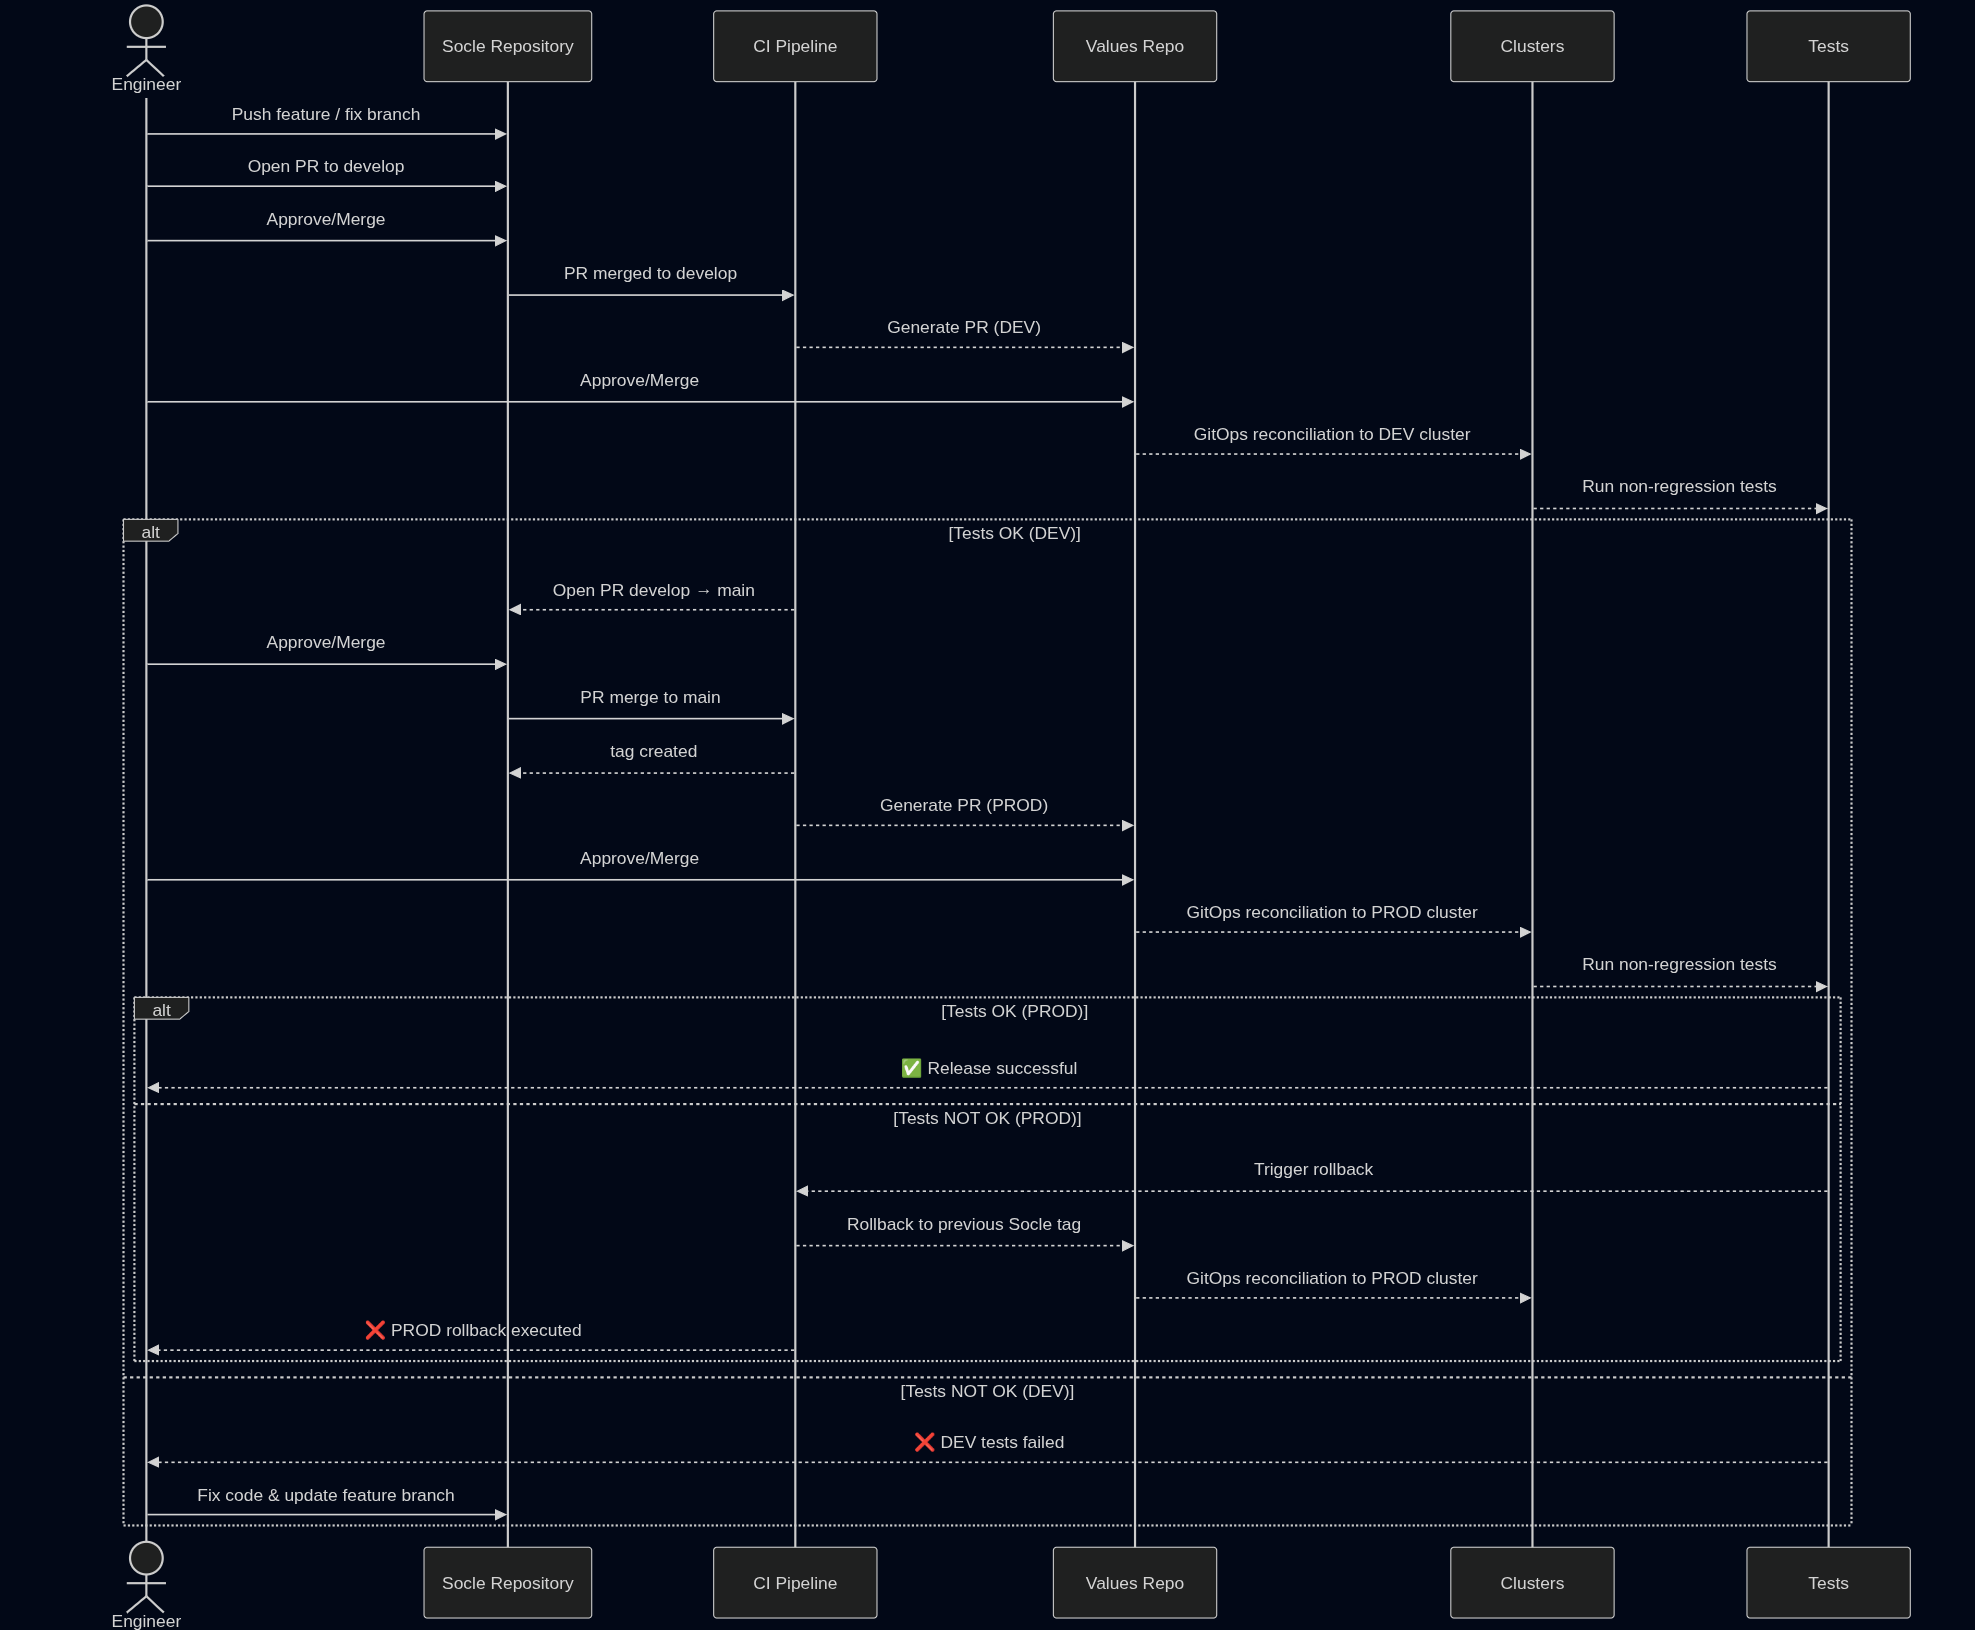
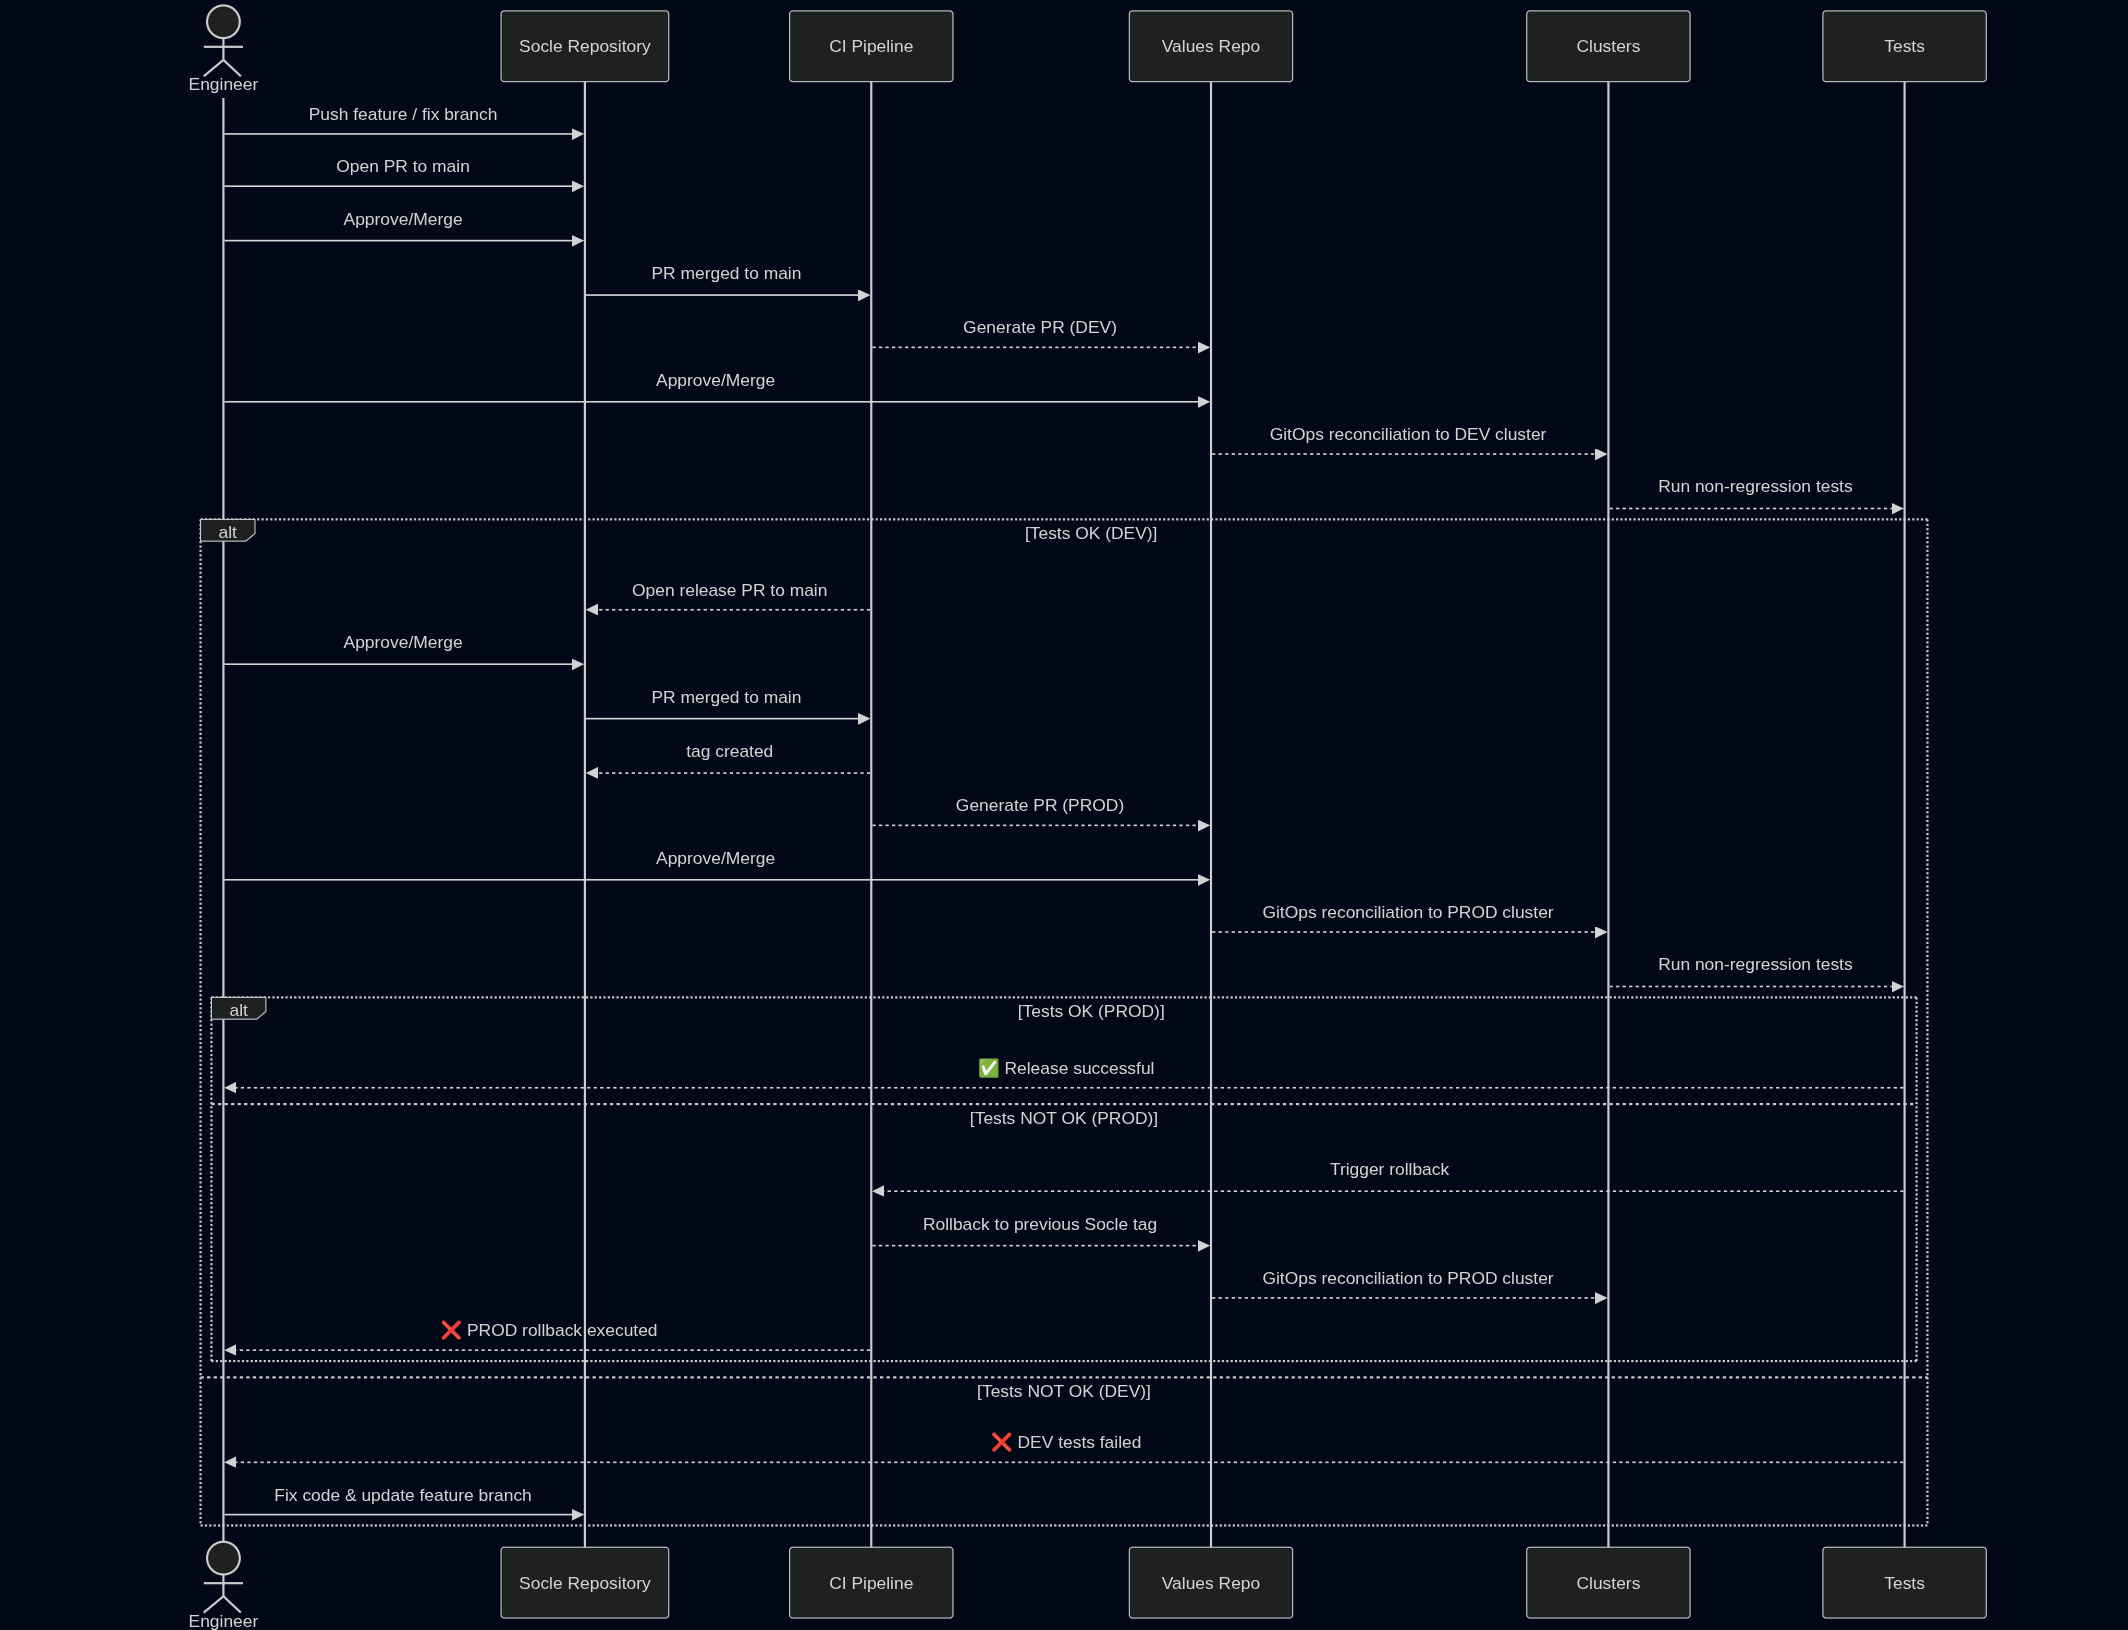
chore: :broom: update workflow diagram

diff --git a/docs/cloudPiNative/misc/mermaid.md b/docs/cloudPiNative/misc/mermaid.md
@@ -9,9 +9,9 @@ sequenceDiagram
 
     %% Manual actions
     Dev->>Socle: Push feature / fix branch
-    Dev->>Socle: Open PR to develop
+    Dev->>Socle: Open PR to main
     Dev->>Socle: Approve/Merge
-    Socle->>CI: PR merged to develop
+    Socle->>CI: PR merged to main
 
     %% Automatic actions
     CI-->>Values: Generate PR (DEV)
@@ -20,9 +20,9 @@ sequenceDiagram
     Clusters-->>Tests: Run non-regression tests
 
     alt Tests OK (DEV)
-        CI-->>Socle: Open PR develop → main
+        CI-->>Socle: Open release PR to main
         Dev->>Socle: Approve/Merge
-        Socle->>CI: PR merge to main
+        Socle->>CI: PR merged to main
         CI-->>Socle: tag created
         CI-->>Values: Generate PR (PROD)
         Dev->>Values: Approve/Merge
